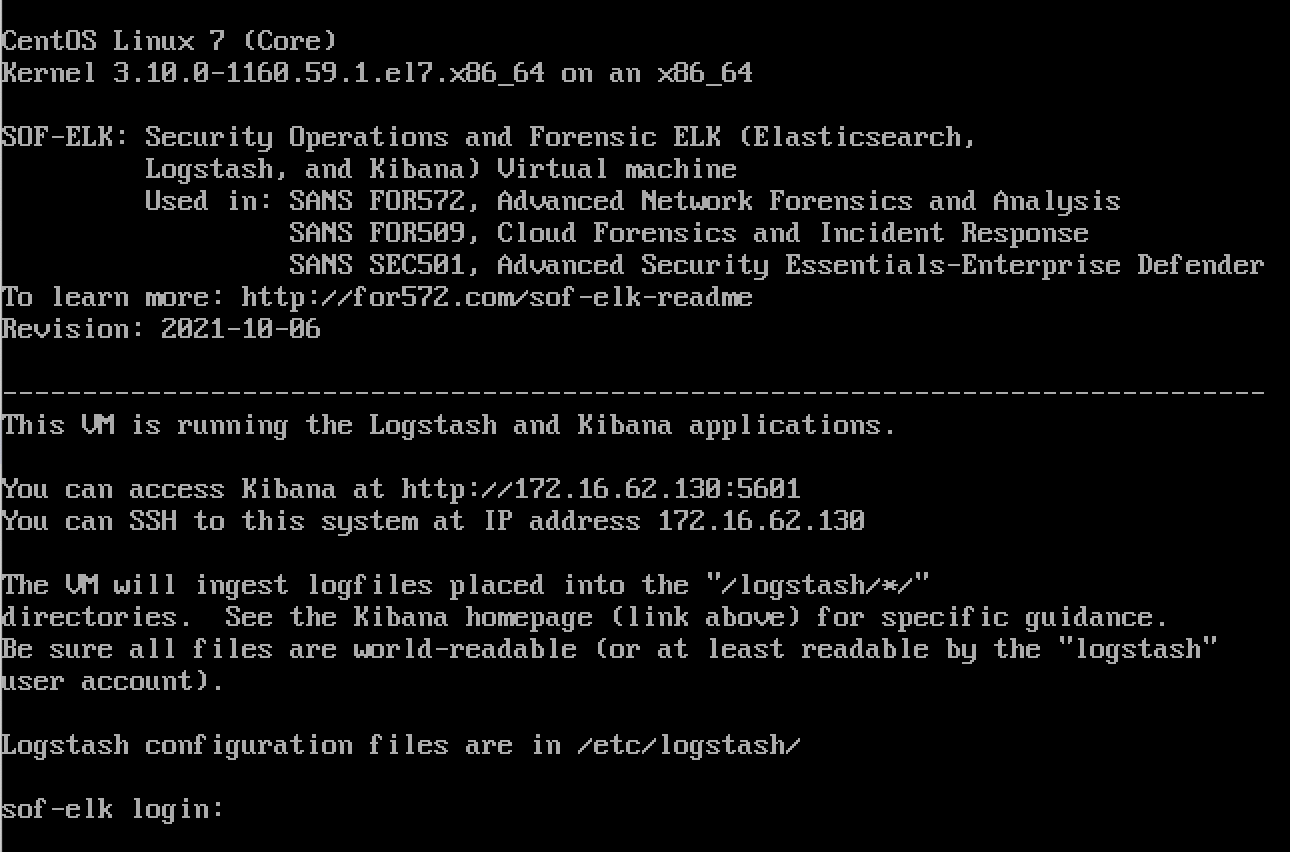
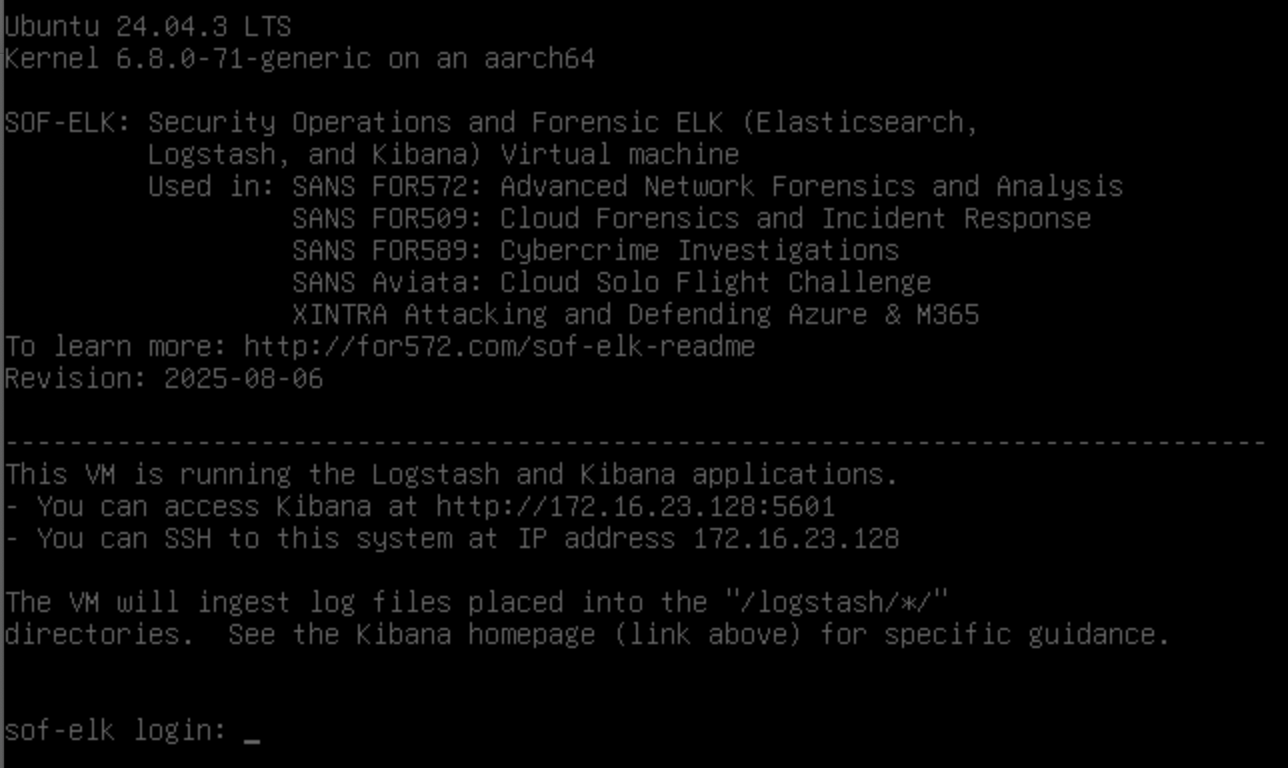
update sof-elk docs

Changed region(s): [[0.0, 0.0, 0.9627, 0.9688]]

diff --git a/doc/ElasticStackImport/ElasticStackImport-English.md b/doc/ElasticStackImport/ElasticStackImport-English.md
@@ -1,25 +1,104 @@
-# Importing Results Into Elastic Stack
+- [Importing Results Into SOF-ELK (Elastic Stack)](#importing-results-into-sof-elk-elastic-stack)
+  - [Install and start SOF-ELK](#install-and-start-sof-elk)
+    - [Network connectivity trouble on Macs](#network-connectivity-trouble-on-macs)
+  - [Update SOF-ELK!](#update-sof-elk)
+  - [Run Hayabusa](#run-hayabusa)
+  - [Import Hayabusa results into SOF-ELK](#import-hayabusa-results-into-sof-elk)
+  - [Check that the import worked](#check-that-the-import-worked)
+  - [View results in Discover](#view-results-in-discover)
+  - [Import the CSV results](#import-the-csv-results)
+  - [Analyzing results](#analyzing-results)
+  - [Hayabusa Dashboard](#hayabusa-dashboard)
+  - [Future Plans](#future-plans)
+  - [Acknowledgements](#acknowledgements)
 
-## Start an elastic stack distribution
 
-Hayabusa results can easily be imported into Elastic Stack. We recommend using [SOF-ELK](https://github.com/philhagen/sof-elk/blob/main/VM_README.md), a free elastic stack Linux distro focused on DFIR investigations.
+# Importing Results Into SOF-ELK (Elastic Stack)
 
-First download and unzip the SOF-ELK 7-zipped VMware image from [http://for572.com/sof-elk-vm](http://for572.com/sof-elk-vm).
+## Install and start SOF-ELK
 
-* Username: `elk_user`
-* Password: `forensics`
+Hayabusa results can easily be imported into Elastic Stack.
+We recommend using [SOF-ELK](https://github.com/philhagen/sof-elk), a free elastic stack Linux distro focused on DFIR investigations.
+
+First download and unzip the SOF-ELK 7-zipped VMware image from [https://github.com/philhagen/sof-elk/wiki/Virtual-Machine-README](https://github.com/philhagen/sof-elk/wiki/Virtual-Machine-README).
+
+There are two versions, x86 for Intel CPUs and an ARM version for Apple M-series computers.
 
 When you boot up the VM, you will get a screen similar to below:
 
 ![SOF-ELK Bootup](01-SOF-ELK-Bootup.png)
 
-Open Kibana in a web browser according to the URL displayed. For example: http://172.16.62.130:5601/
+You can log in with the following credentials:
+* Username: `elk_user`
+* Password: `forensics`
+
+Open Kibana in a web browser according to the URL displayed.
+For example: http://172.16.23.128:5601/
 
 >> Note: it may take a while for Kibana to load.
 
 You should see a webpage as follows:
 
 ![SOF-ELK Kibana](02-Kibana.png)
+
+We recommend that you SSH into the VM instead of typing commands inside the VM with `ssh elk_user@172.16.23.128`.
+
+> Note: the default keyboard layout is the US keyboard.
+
+### Network connectivity trouble on Macs
+
+If you are on macOS and you get a `no route to host error` in the terminal or you cannot access Kibana in your browser, it is probably due to macOS's local network privacy controls.
+
+In `System Settings`, open up `Privacy & Security` -> `Local Network` and make sure that your browser and terminal program are enabled to be able to communicate with devices on your local network.
+
+## Update SOF-ELK!
+
+Before importing data, be sure to update SOF-ELK with the `sudo sof-elk_update.sh` command.
+
+## Run Hayabusa
+
+Run Hayabusa and save results to CSV (and/or JSON?) 
+
+Ex: `./hayabusa-3.x.x csv-timeline -d ../hayabusa-sample-evtx -w -p super-verbose -G /opt/homebrew/var/GeoIP -o super-verbose-and-geoip.csv`
+
+## Import Hayabusa results into SOF-ELK
+
+Logs are ingested into SOF-ELK by copying the logs into the appropriate directory inside the  `/logstash` directory.
+
+Copy over the Hayabusa results file you created with `scp`:
+`scp ./results.csv elk_user@172.16.23.128:/logstash/hayabusa`
+
+## Check that the import worked
+
+Refresh the SOF-ELK homepage to see the total records:
+
+[!TotalRecords](03-TotalRecords.png)
+
+You can also check from the terminal by running `sof-elk_clear.py -i list` to see if the import was successful.
+You should see that your `evtxlogs` index should have more records:
+```
+The following indices are currently active in Elasticsearch:
+- evtxlogs (32,298 documents)
+```
+
+## View results in Discover
+
+Click on the top-left sidebar icon and click `Discover`:
+
+![OpenDiscover](04-OpenDiscover.png)
+
+By default, you will not see any results:
+
+![NoResults](05-NoResults.png)
+
+
+
+You need to make sure that you change the dates so that they include the logs and then click `Update`:
+
+![Change date](03-ChangeData.png)
+
+
+
 
 ## Import the CSV results
 
